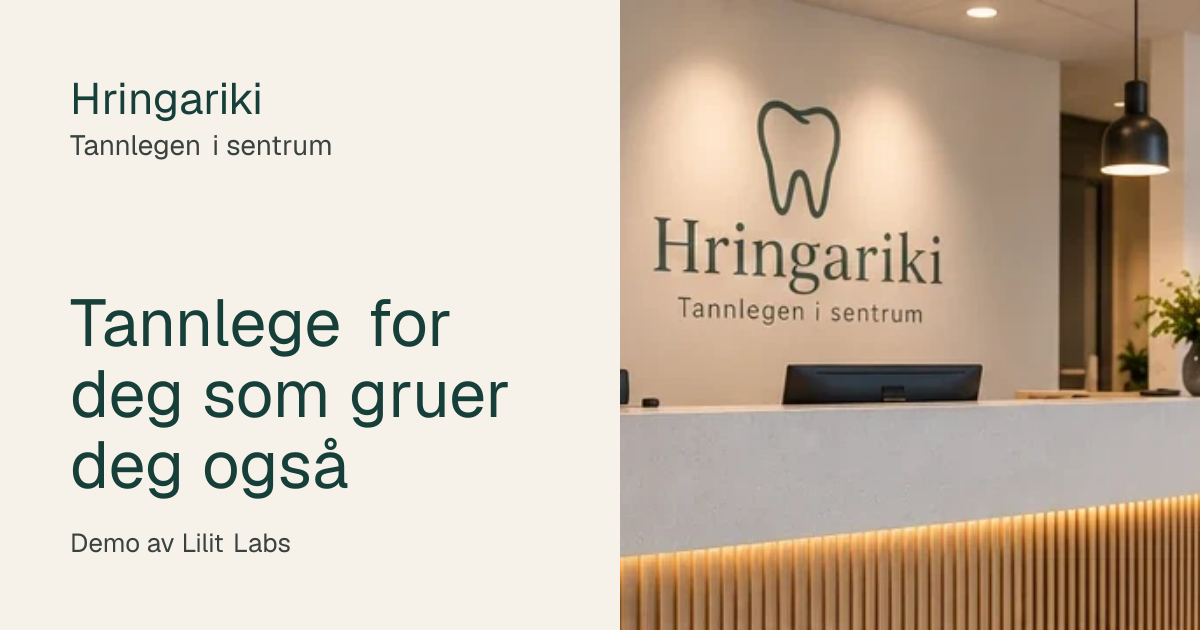
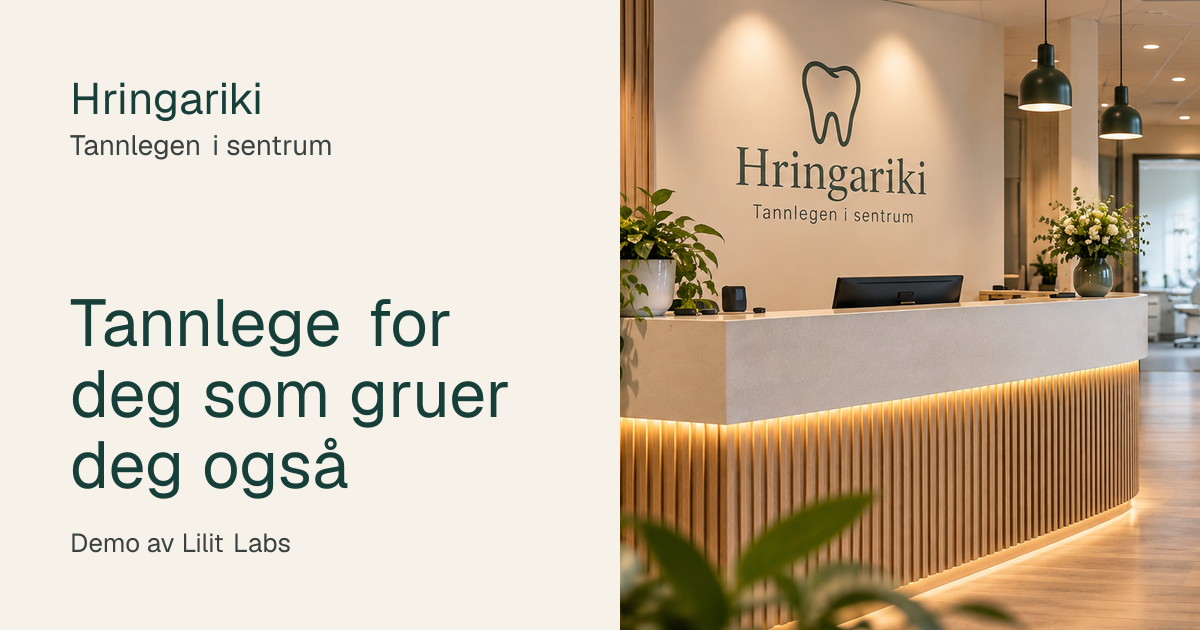
Større og skarpere resepsjonsbilde
Nytt toppbilde i 1200 px (fra 601), litt mer plass i toppen,
og delingsbildet laget på nytt fra det store bildet.

diff --git a/app/page.tsx b/app/page.tsx
@@ -41,7 +41,7 @@ export default function Home() {
     <>
       {/* Topp */}
       <section className="relative overflow-hidden">
-        <div className="relative mx-auto grid max-w-6xl items-center gap-12 px-4 pb-20 pt-12 sm:pt-16 lg:grid-cols-[1.1fr_1fr]">
+        <div className="relative mx-auto grid max-w-6xl items-center gap-12 px-4 pb-20 pt-12 sm:pt-16 lg:grid-cols-[1fr_1.15fr]">
           <div>
             <ApentNa />
             <h1 className="mt-5 max-w-3xl text-[2.5rem] font-semibold text-furu-mork sm:text-[3.5rem]">
@@ -55,7 +55,7 @@ export default function Home() {
               <Knapper />
             </div>
           </div>
-          <div className="relative mx-auto w-full max-w-xl">
+          <div className="relative mx-auto w-full max-w-2xl">
             <div
               aria-hidden="true"
               className="svev absolute -right-6 -top-8 h-48 w-48 rounded-[45%_55%_60%_40%/55%_45%_55%_45%] bg-furu-lys"
@@ -71,7 +71,7 @@ export default function Home() {
               width={bilder.resepsjon.w}
               height={bilder.resepsjon.h}
               priority
-              sizes="(min-width: 1024px) 560px, 100vw"
+              sizes="(min-width: 1024px) 620px, 100vw"
               className="relative w-full rounded-[2rem] shadow-lg"
             />
           </div>

diff --git a/lib/klinikk.ts b/lib/klinikk.ts
@@ -40,7 +40,7 @@ export type Bilde = { src: string; alt: string; w: number; h: number };
 
 // KI-genererte bilder fra Kenneth. Ligger i public/bilder.
 export const bilder = {
-  resepsjon: { src: `${base}/bilder/resepsjon.webp`, alt: "Lys resepsjon med Hringariki-skilt på veggen, planter og varmt lys under disken.", w: 601, h: 360 },
+  resepsjon: { src: `${base}/bilder/resepsjon.webp`, alt: "Lys resepsjon med Hringariki-skilt på veggen, varmt lys under disken og lenestoler ved vinduet.", w: 1200, h: 675 },
   teamet: { src: `${base}/bilder/teamet.webp`, alt: "Ingrid, Jonas og Mira i mørkeblå arbeidsklær, smilende i gangen på klinikken.", w: 601, h: 336 },
   venterom: { src: `${base}/bilder/venterom.webp`, alt: "Rolig venterom med lenestoler, planter og et maleri av et fjellvann.", w: 427, h: 336 },
   gang: { src: `${base}/bilder/gang.webp`, alt: "Lys gang uten trapper, med nummererte dører til behandlingsrommene.", w: 367, h: 302 },
